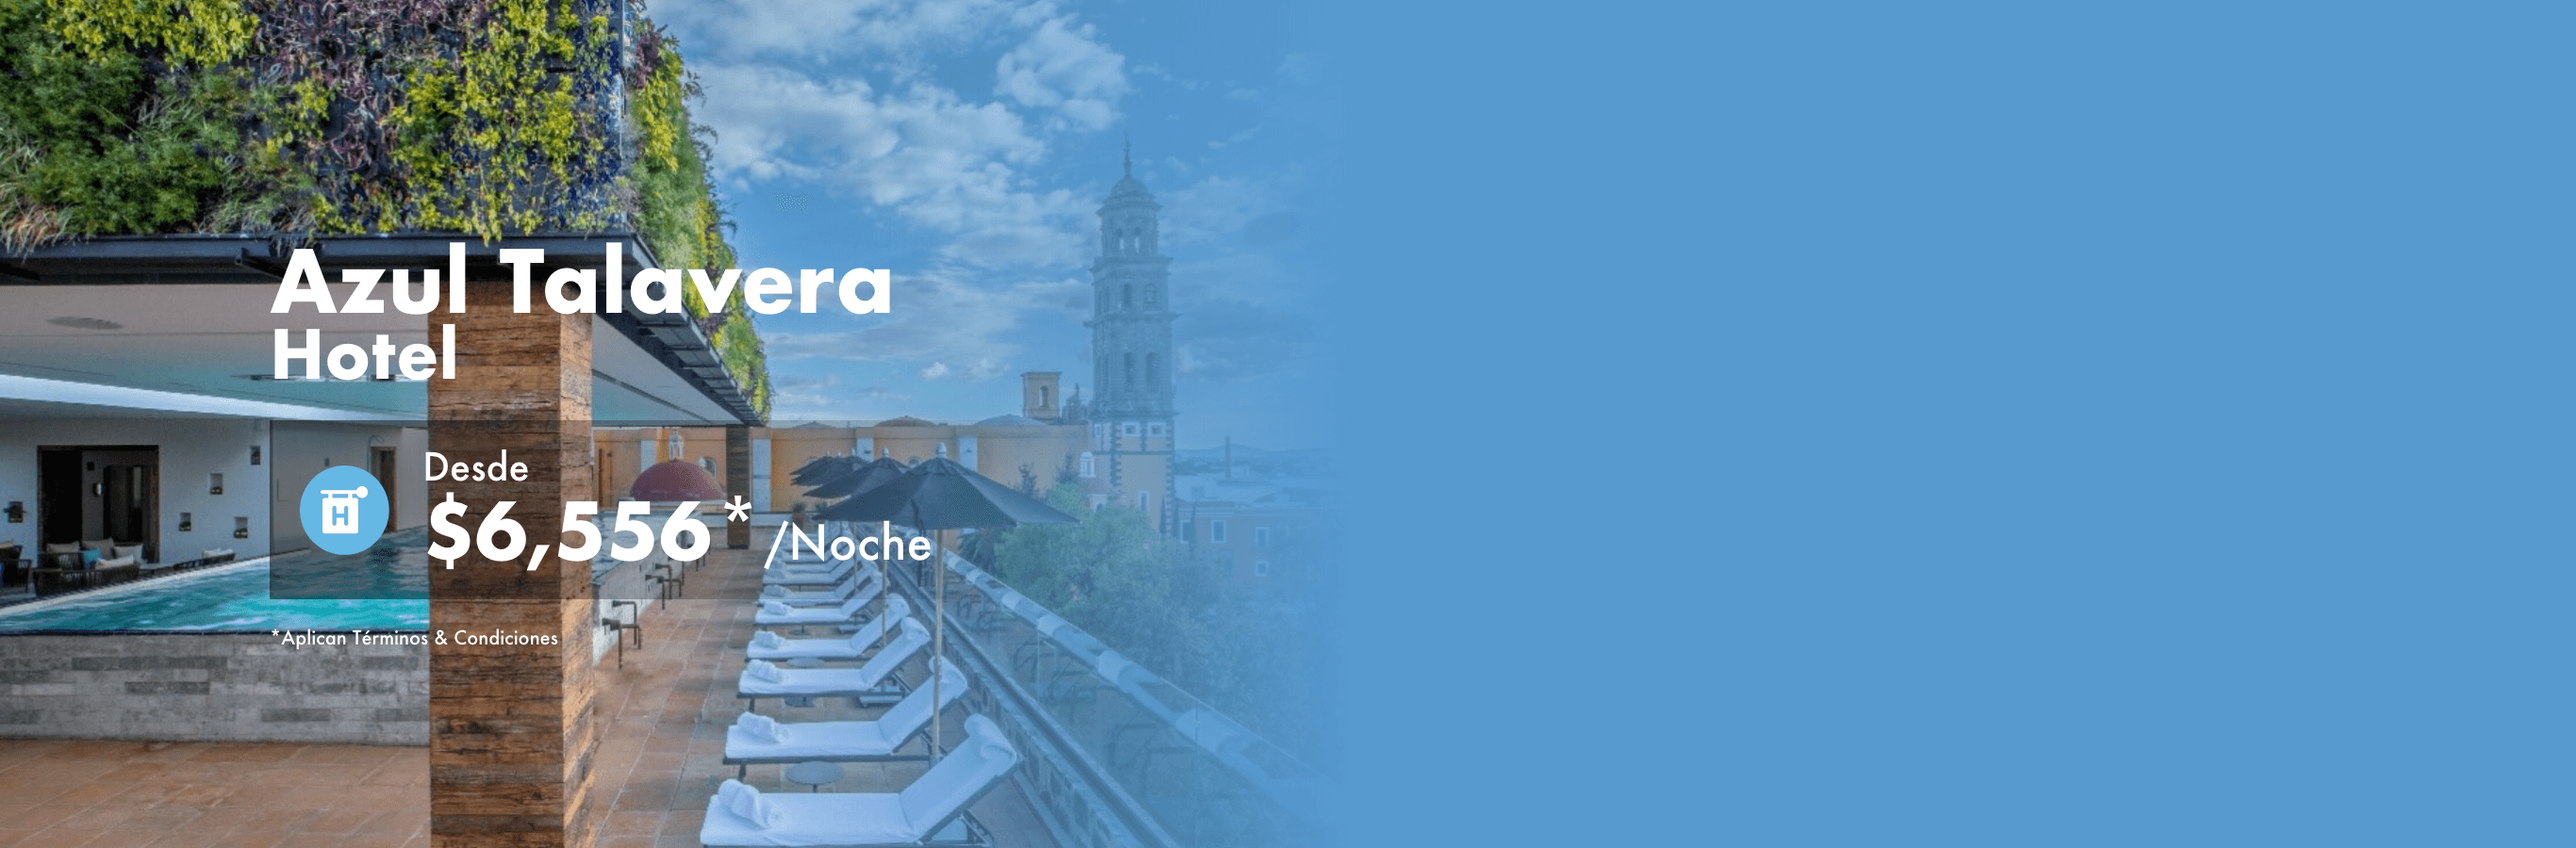
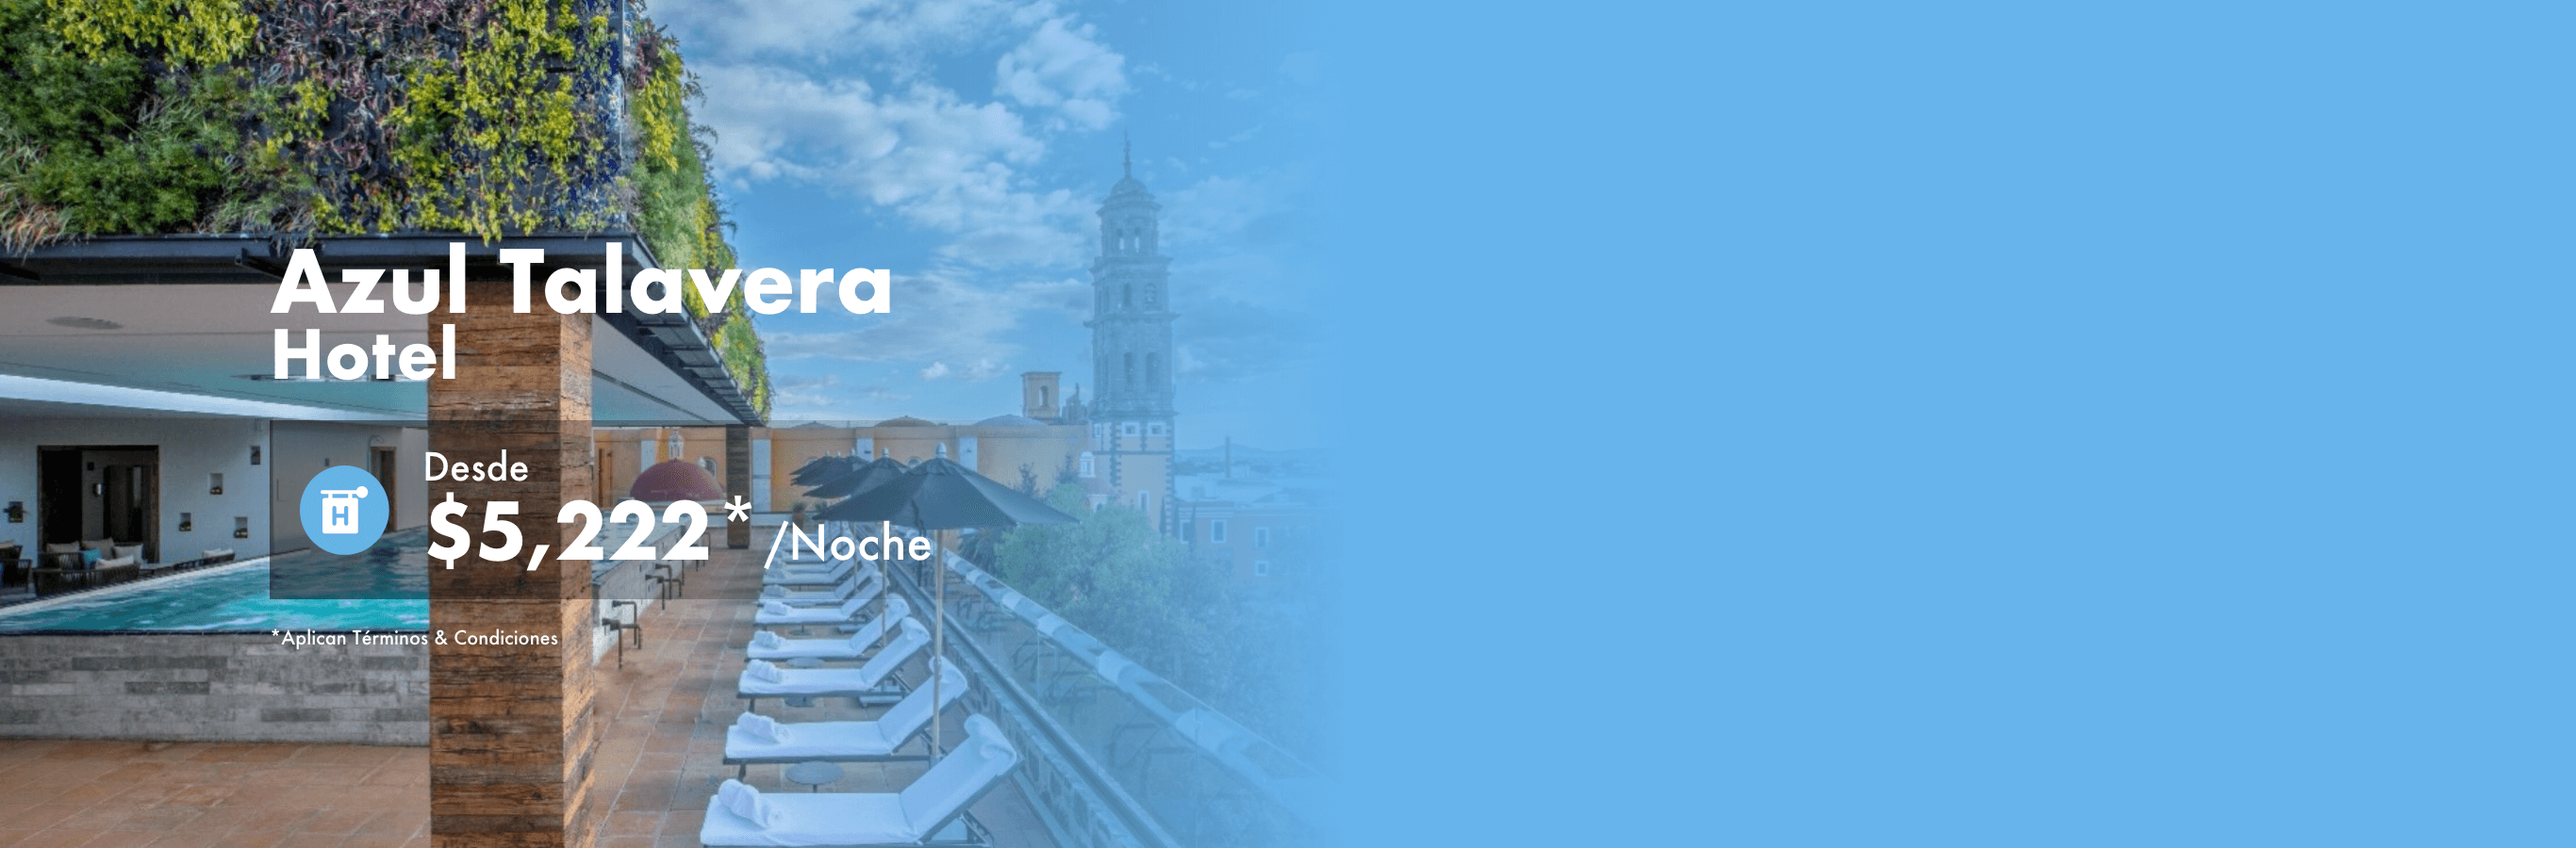
Cambios de precios y slides 03/02/2021

diff --git a/index.php b/index.php
@@ -127,7 +127,7 @@
                             <div class="col-md-12 col-sm-12 p-15">
                                 <h4 class="text-uppercase f-medium f-res-20">Nobu Hotel Los Cabos</h4>
                                 <small class="c-red f-8">Desde</small>
-                                <p class="c-red f-16">$9,542*<span class="fs-8">/Noche</span></p>
+                                <p class="c-red f-16">$8,561*<span class="fs-8">/Noche</span></p>
                                 <a href="#main" class="btn col-md-12 col-xs-12 btn-yellow white-text mb-10 radius-0 f-bold mb-0 txt-cap p-15 form-desktop">Llámame</a>
                                 <a href="#formRes" class="btn col-md-12 col-xs-12 btn-yellow white-text mb-10 radius-0 f-bold mb-0 txt-cap p-15 d-mobile">Llámame</a>
                             </div>
@@ -141,7 +141,7 @@
                             <div class="col-md-12 col-sm-12 p-15">
                                 <h4 class="text-uppercase f-medium f-res-20">Grand Velas Los Cabos</h4>
                                 <small class="c-red f-8">Desde</small>
-                                <p class="c-red f-16">$24,883*<span class="fs-8">/Noche</span></p>
+                                <p class="c-red f-16">$24,039*<span class="fs-8">/Noche</span></p>
                                 <a href="#main" class="btn col-md-12 col-xs-12 btn-yellow white-text mb-10 radius-0 f-bold mb-0 txt-cap p-15 form-desktop">Llámame</a>
                                 <a href="#formRes" class="btn col-md-12 col-xs-12 btn-yellow white-text mb-10 radius-0 f-bold mb-0 txt-cap p-15 d-mobile">Llámame</a>
                             </div>
@@ -155,7 +155,7 @@
                             <div class="col-md-12 col-sm-12 p-15">
                                 <h4 class="mb-0 text-uppercase f-medium f-res-20">Rosewood San Miguel Allende</h4>
                                 <small class="c-red f-8">Desde</small>
-                                <p class="c-red f-16">$9,999*<span class="fs-8">/Noche</span></p>
+                                <p class="c-red f-16">$9,000*<span class="fs-8">/Noche</span></p>
                                 <a href="#main" class="btn col-md-12 col-xs-12 btn-yellow white-text mb-10 radius-0 f-bold mb-0 txt-cap p-15 form-desktop">Llámame</a>
                                 <a href="#formRes" class="btn col-md-12 col-xs-12 btn-yellow white-text mb-10 radius-0 f-bold mb-0 txt-cap p-15 d-mobile">Llámame</a>
                             </div>
@@ -183,7 +183,7 @@
                             <div class="col-md-12 col-sm-12 p-15">
                                 <h4 class="text-uppercase f-medium f-res-20">Azul Talavera</h4>
                                 <small class="c-red f-8">Desde</small>
-                                <p class="c-red f-16">$6,556*<span class="fs-8">/Noche</span></p>
+                                <p class="c-red f-16">$5,222*<span class="fs-8">/Noche</span></p>
                                 <a href="#main" class="btn col-md-12 col-xs-12 btn-yellow white-text mb-10 radius-0 f-bold mb-0 txt-cap p-15 form-desktop">Llámame</a>
                                 <a href="#formRes" class="btn col-md-12 col-xs-12 btn-yellow white-text mb-10 radius-0 f-bold mb-0 txt-cap p-15 d-mobile">Llámame</a>
                             </div>
@@ -209,7 +209,7 @@
                             <div class="col-md-12 col-sm-12 p-15">
                                 <h4 class="text-uppercase f-medium f-res-20">The Grand Moon Palace </h4>
                                 <small class="c-red f-8">Desde</small>
-                                <p class="c-red f-16">$11,234*<span class="fs-8">/Persona</span></p>
+                                <p class="c-red f-16">$11,410*<span class="fs-8">/Persona</span></p>
                                 <a href="#main" class="btn col-md-12 col-xs-12 btn-yellow white-text mb-10 radius-0 f-bold mb-0 txt-cap p-15 form-desktop">Llámame</a>
                                 <a href="#formRes" class="btn col-md-12 col-xs-12 btn-yellow white-text mb-10 radius-0 f-bold mb-0 txt-cap p-15 d-mobile">Llámame</a>
                             </div>
@@ -223,7 +223,7 @@
                             <div class="col-md-12 col-sm-12 p-15">
                                 <h4 class="mb-0 text-uppercase f-medium f-res-20">Hard Rock Hotel Cancun</h4>
                                 <small class="c-red f-8">Desde</small>
-                                <p class="c-red f-16">$9,715*<span class="fs-8">/Persona</span></p>
+                                <p class="c-red f-16">$9,415*<span class="fs-8">/Persona</span></p>
                                 <a href="#main" class="btn col-md-12 col-xs-12 btn-yellow white-text mb-10 radius-0 f-bold mb-0 txt-cap p-15 form-desktop">Llámame</a>
                                 <a href="#formRes" class="btn col-md-12 col-xs-12 btn-yellow white-text mb-10 radius-0 f-bold mb-0 txt-cap p-15 d-mobile">Llámame</a>
                             </div>
@@ -237,7 +237,7 @@
                             <div class="col-md-12 col-sm-12 p-15">
                                 <h4 class="mb-0 text-uppercase f-medium f-res-20">Dreams Playa Mujeres Golf Resort & Spa</h4>
                                 <small class="c-red f-8">Desde</small>
-                                <p class="c-red f-16">$7,355*<span class="fs-8">/Persona</span></p>
+                                <p class="c-red f-16">$8,959*<span class="fs-8">/Persona</span></p>
                                 <a href="#main" class="btn col-md-12 col-xs-12 btn-yellow white-text mb-10 radius-0 f-bold mb-0 txt-cap p-15 form-desktop">Llámame</a>
                                 <a href="#formRes" class="btn col-md-12 col-xs-12 btn-yellow white-text mb-10 radius-0 f-bold mb-0 txt-cap p-15 d-mobile">Llámame</a>
                             </div>
@@ -251,7 +251,7 @@
                             <div class="col-md-12 col-sm-12 p-15">
                                 <h4 class="text-uppercase f-medium f-res-20">UNICO 20ºN 87ºW</h4>
                                 <small class="c-red f-8">Desde</small>
-                                <p class="c-red f-16">$11,622*<span class="fs-8">/Persona</span></p>
+                                <p class="c-red f-16">$12,042*<span class="fs-8">/Persona</span></p>
                                 <a href="#main" class="btn col-md-12 col-xs-12 btn-yellow white-text mb-10 radius-0 f-bold mb-0 txt-cap p-15 form-desktop">Llámame</a>
                                 <a href="#formRes" class="btn col-md-12 col-xs-12 btn-yellow white-text mb-10 radius-0 f-bold mb-0 txt-cap p-15 d-mobile">Llámame</a>
                             </div>
@@ -265,7 +265,7 @@
                             <div class="col-md-12 col-sm-12 p-15">
                                 <h4 class="mb-0 text-uppercase f-medium f-res-20">GRAND VELAS RIVIERA NAYARIT</h4>
                                 <small class="c-red f-8">Desde</small>
-                                <p class="c-red f-16">$17,684*<span class="fs-8">/Persona</span></p>
+                                <p class="c-red f-16">$17,337*<span class="fs-8">/Persona</span></p>
                                 <a href="#main" class="btn col-md-12 col-xs-12 btn-yellow white-text mb-10 radius-0 f-bold mb-0 txt-cap p-15 form-desktop">Llámame</a>
                                 <a href="#formRes" class="btn col-md-12 col-xs-12 btn-yellow white-text mb-10 radius-0 f-bold mb-0 txt-cap p-15 d-mobile">Llámame</a>
                             </div>
